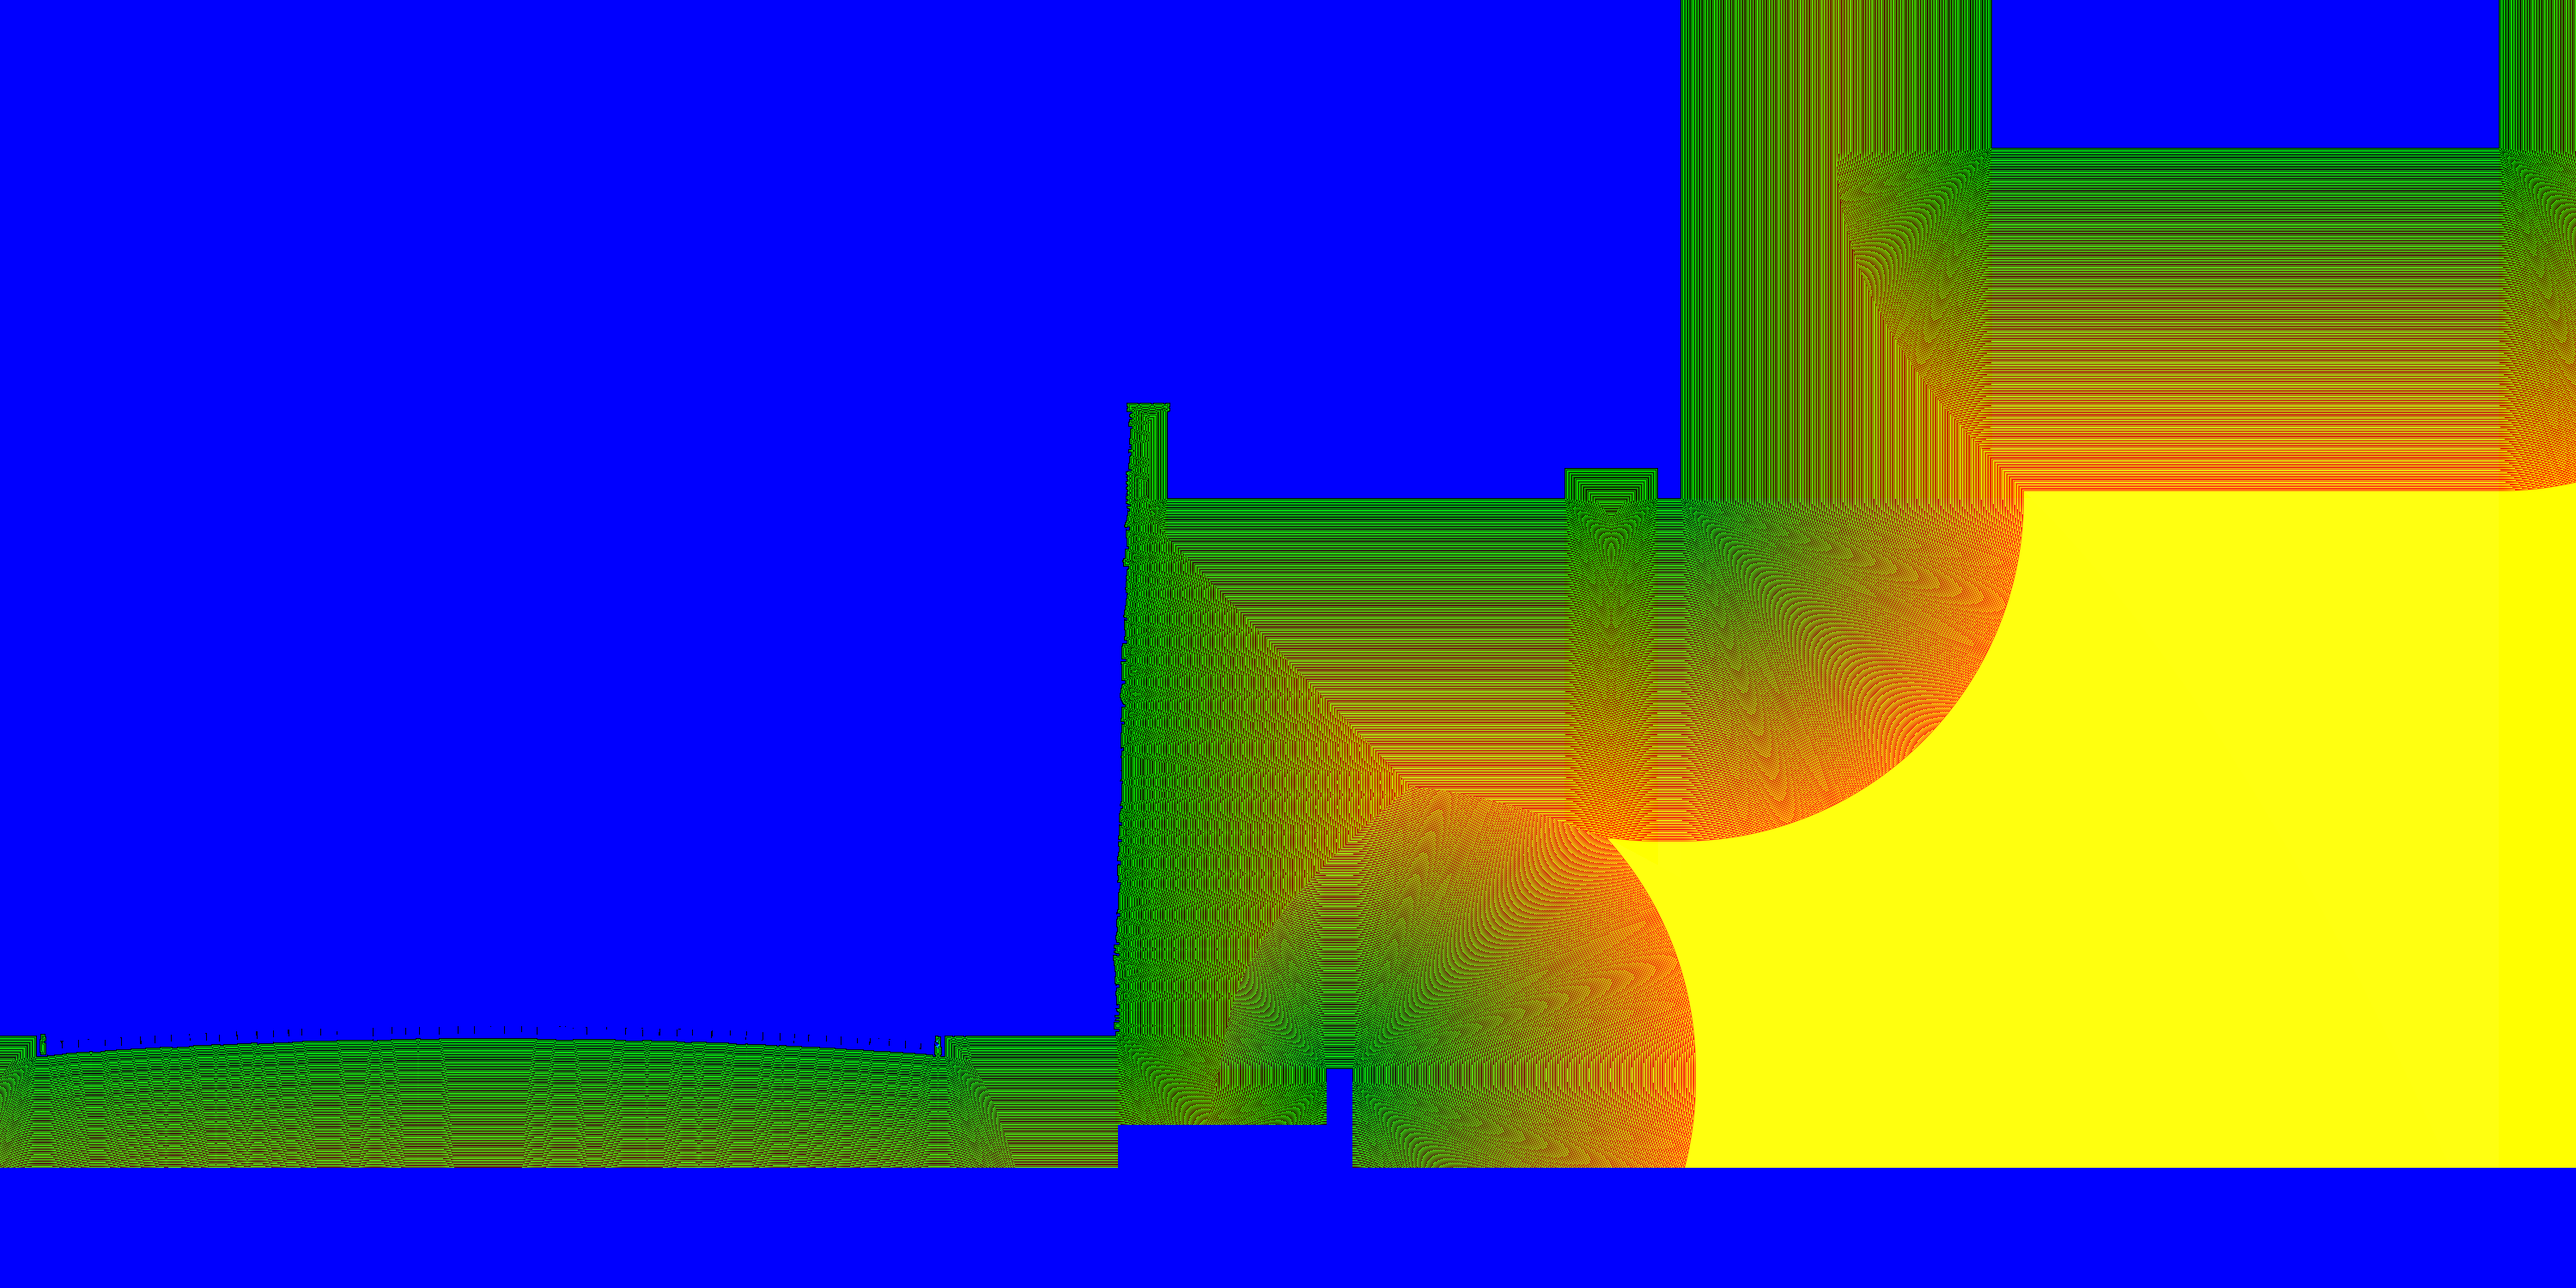
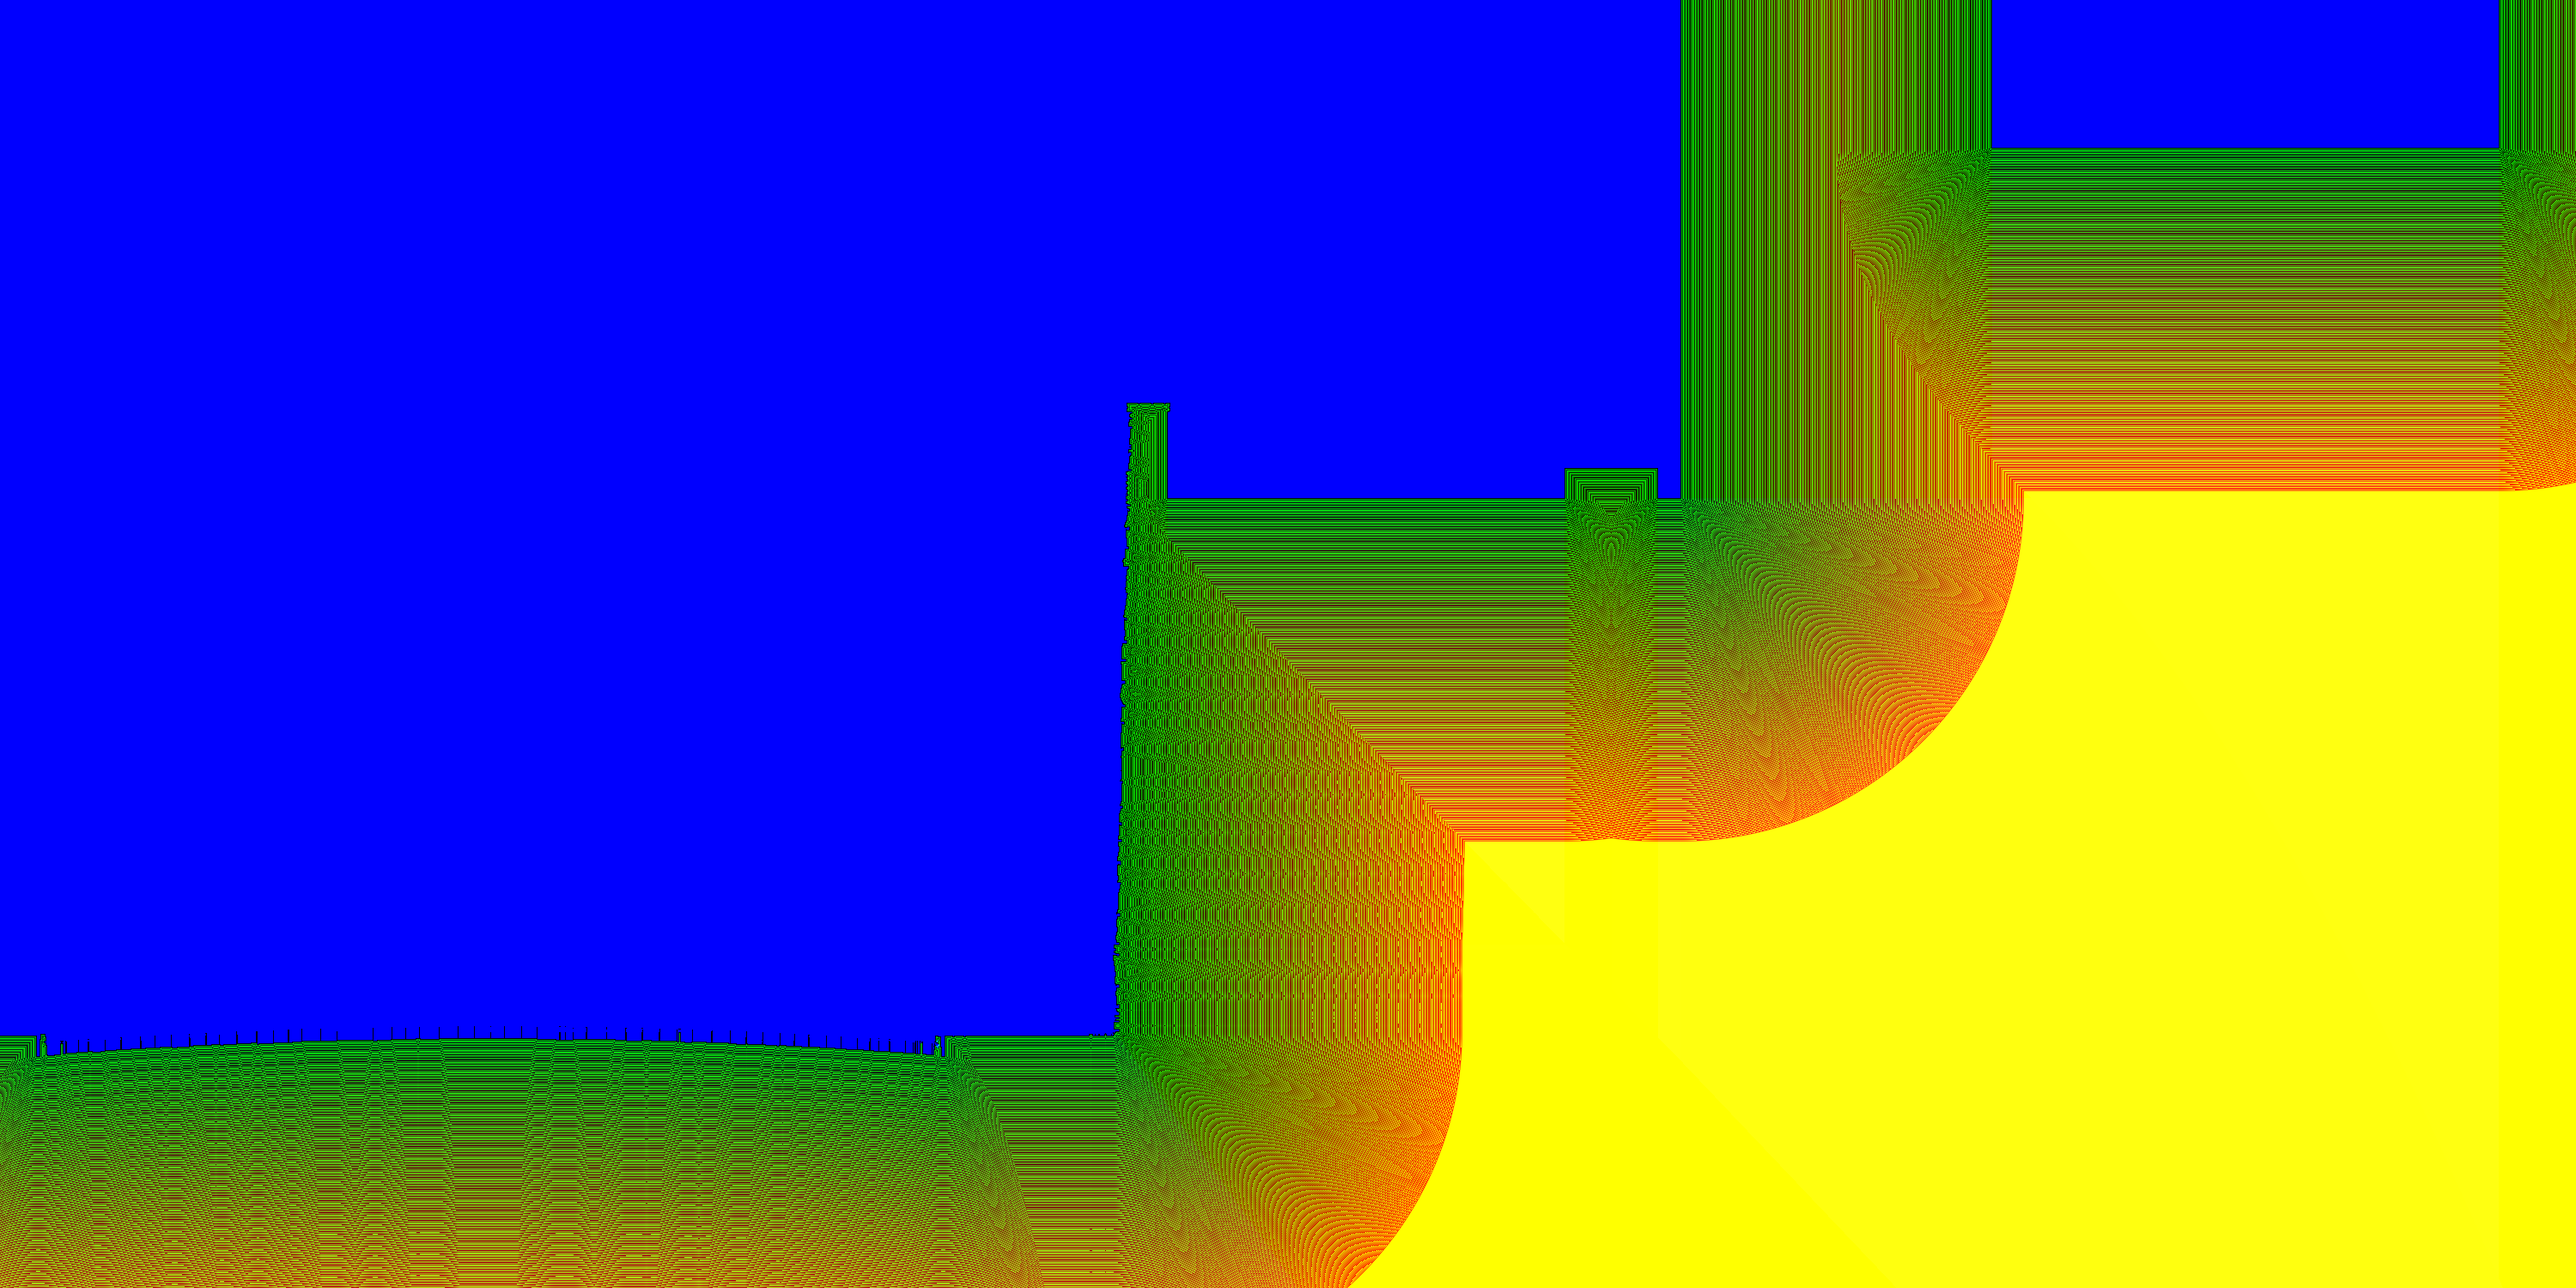
Complete the ground under and beside the footing, draw drainage gravel and pipe, earth ink in the cut

Changed region(s): [[0.0, 0.6133, 1.0, 1.0]]

diff --git a/shader.js b/shader.js
@@ -154,7 +154,7 @@ void main(){
   vec3 paper = cPaper*(0.985 + 0.03*(vn(P,.35,90)*.6 + vn(P,2.5,91)*.4));
   if(P.x<0.||P.y<0.||P.x>uSheetMM.x||P.y>uSheetMM.y){ outColor = vec4(cPaper*0.82,1.); return; }
   vec2 o = obl(P); vec2 uv = tuv(o);
-  float inkG=0., inkC=0., inkV=0., inkH=0.; vec3 hotCol = cAccent; float washA = 0.; vec3 washC = cAccent;
+  float inkG=0., inkC=0., inkV=0., inkH=0., inkE=0.; vec3 hotCol = cAccent; float washA = 0.; vec3 washC = cAccent;
   bool cov=false, cut=false, veg=false; int c=-1; float T=uTa, d=0., z=0., svf=1.;
   if(inside(uv)){
     int fl = flags_at(uv); cov = (fl&1)!=0; cut = (fl&2)!=0; veg = (fl&4)!=0;
@@ -243,14 +243,22 @@ void main(){
         if(pStyle==4) v = 0.;
         v *= ctx? .45 : 1.; if(seam && pCutStyle!=1 && pCutStyle!=3 && pCutStyle!=4) v = 0.;
         inkC = max(inkC, v*cutAmt);
+      } else if(c==18){                                        // drainage gravel: packed round pebbles ~35 mm, never fades
+        float cs = 35./uScale;                                   // pebble cell in sheet mm
+        vec2 g = floor(P/cs); vec2 cc = (g + .5 + .3*(vec2(h2(int(g.x),int(g.y),71), h2(int(g.x),int(g.y),72))-.5))*cs;
+        float rr = cs*(.34 + .08*h2(int(g.x),int(g.y),73));
+        float ring = abs(length(P-cc)-rr);
+        inkC = max(inkC, max(clamp(.5-(ring-.07)/px,0.,1.), .3)*cutAmt);
+      } else if(c==19){                                        // drain pipe
+        inkC = max(inkC, .95*cutAmt);
       } else {
         float dep = dec16(texture(tSec,uv).rg)*4. + (vn(P,6.,49)-.5)*.5;
         float ef = 1. - sm(dep, .25, pEarthFade);
-        float e = stip(P, .75*ef, .36, .075, px, 45)*.9;
+        float e = stip(P, .8*ef, .36, .085, px, 45)*.95;
         e = max(e, hatch(P, radians(-20.), 1.4, .11, px, 47, .18, .55, 2.)*.55*sm(ef,.35,.8));
         if(pCutStyle==1) e = ef*.5;
         if(pCutStyle==4){ vec2 wc = floor(P/1.6); float hv = mod(wc.x+wc.y,2.); e = ef*(.25+.55*hatch(P, hv>.5? 0. : PI*.5, .36*pSpacing, .12*pWidth, px, 9, .05, .0, 9.)); } if(pStyle==2) e = halftone(P, .6*ef, .6, .3, px);
-        inkC = max(inkC, e*cutAmt*.8);
+        inkE = max(inkE, e*cutAmt*.85);
       }
     } else {
       // ------------------------------------------------ elevation beyond
@@ -360,7 +368,7 @@ void main(){
     float kind = cut? 0.75 : (veg? 0.5 : 0.25);
     outColor = vec4(floor(q/256.)/255., mod(q,256.)/255., kind, 1.); return;
   }
-  inkG*=kf; inkC*=kf; inkV*=kf; inkH*=kf; washA*=kf;
+  inkG*=kf; inkC*=kf; inkV*=kf; inkH*=kf; inkE*=kf; washA*=kf;
   // ---------------------------------------------------------- composite
   vec3 inkCol = mix(cInk, hotCol, hInk);          // thermal ink: the stroke colour is the temperature
   vec3 cutCol = mix(cCut, hotCol, hCut);
@@ -376,6 +384,7 @@ void main(){
     col *= mix(vec3(1.), cVeg/cPaper, clamp(inkV,0.,1.));
     col *= mix(vec3(1.), inkCol/cPaper, clamp(inkG,0.,1.));
     col *= mix(vec3(1.), cutCol/cPaper, clamp(inkC,0.,1.));
+    col *= mix(vec3(1.), mix(cCut, hotCol, .35*hCut)/cPaper, clamp(inkE,0.,1.));
     vec3 hc = hIso>0.||hDots>0.||hHalo>0.? mix(cAccent, hotCol, step(.5, hInk+hHalo*0.)) : cAccent;
     col *= mix(vec3(1.), hotCol/cPaper, clamp(inkH,0.,1.));
   } else {
@@ -383,6 +392,7 @@ void main(){
     col = mix(col, cVeg, clamp(inkV,0.,1.));
     col = mix(col, inkCol, clamp(inkG,0.,1.));
     col = mix(col, cutCol, clamp(inkC,0.,1.));
+    col = mix(col, mix(cCut, hotCol, .35*hCut), clamp(inkE,0.,1.));
     col = mix(col, hotCol, clamp(inkH,0.,1.));
   }
   col *= (1. - pGrain*.05) + pGrain*.05*vn(P,.12,92)*2.;

diff --git a/overlay.js b/overlay.js
@@ -219,7 +219,7 @@ export function drawOverlay(ctx, S, st, M, mmToPx, pxPerMm) {
       txt(`${i}`, [x0 + i * u, y0 + pt(11)], 8.5, soft, "center"); }
     ctx.strokeStyle = ink; ctx.lineWidth = 0.15 * pxPerMm; ctx.strokeRect(x0, y0, 3 * u, 1.4 * pxPerMm);
     txt("3 m", [x0 + 3 * u, y0 + pt(11)], 8.5, soft, "center"); txt(`1:${S.scaleN}`, [x0 + 3 * u + 6 * pxPerMm, y0 + 1.4 * pxPerMm], 11, ink, "left", fHead, 600);
-    for (const [z, lab, yy] of [[0, "±0.00", 0.5], [6.2, "+6.20", 2.2], [7.31, "+7.31", 0.6]]) {
+    for (const [z, lab, yy] of [[0, "±0.00", -0.9], [6.2, "+6.20", 2.2], [7.31, "+7.31", 0.6]]) {
       const p = W(M.labelPoint("lvl", [M.SX, yy, z])); const tri = [[p[0], p[1]], [p[0] - 1.5 * pxPerMm, p[1] - 2.2 * pxPerMm], [p[0] + 1.5 * pxPerMm, p[1] - 2.2 * pxPerMm], [p[0], p[1]]];
       line(tri, ink, 0.15); line([[p[0] + 1.5 * pxPerMm, p[1]], [p[0] + 12 * pxPerMm, p[1]]], ink, 0.12);
       txt(lab, [p[0] + 3 * pxPerMm, p[1] - 1 * pxPerMm], 8.5, soft, "left");

diff --git a/params.js b/params.js
@@ -55,7 +55,7 @@ export const PARAMS = [
   { k: "cr2", g: "cut", t: "c", v: "#c8b89a", l: "Cut scale: middle" },
   { k: "cr3", g: "cut", t: "c", v: "#d9823f", l: "Cut scale: 4" },
   { k: "cr4", g: "cut", t: "c", v: "#a8322a", l: "Cut scale: hot" },
-  { k: "earthFade", g: "cut", t: "r", min: 0.4, max: 5, step: 0.05, v: 1.6, l: "Earth fades out, m" },
+  { k: "earthFade", g: "cut", t: "r", min: 0.4, max: 5, step: 0.05, v: 2.6, l: "Earth fades out, m" },
   // --- colour
   { k: "cPaper", g: "colour", t: "c", v: "#f3eee3", l: "Paper" },
   { k: "cInk", g: "colour", t: "c", v: "#2e2c29", l: "Graphite" },
